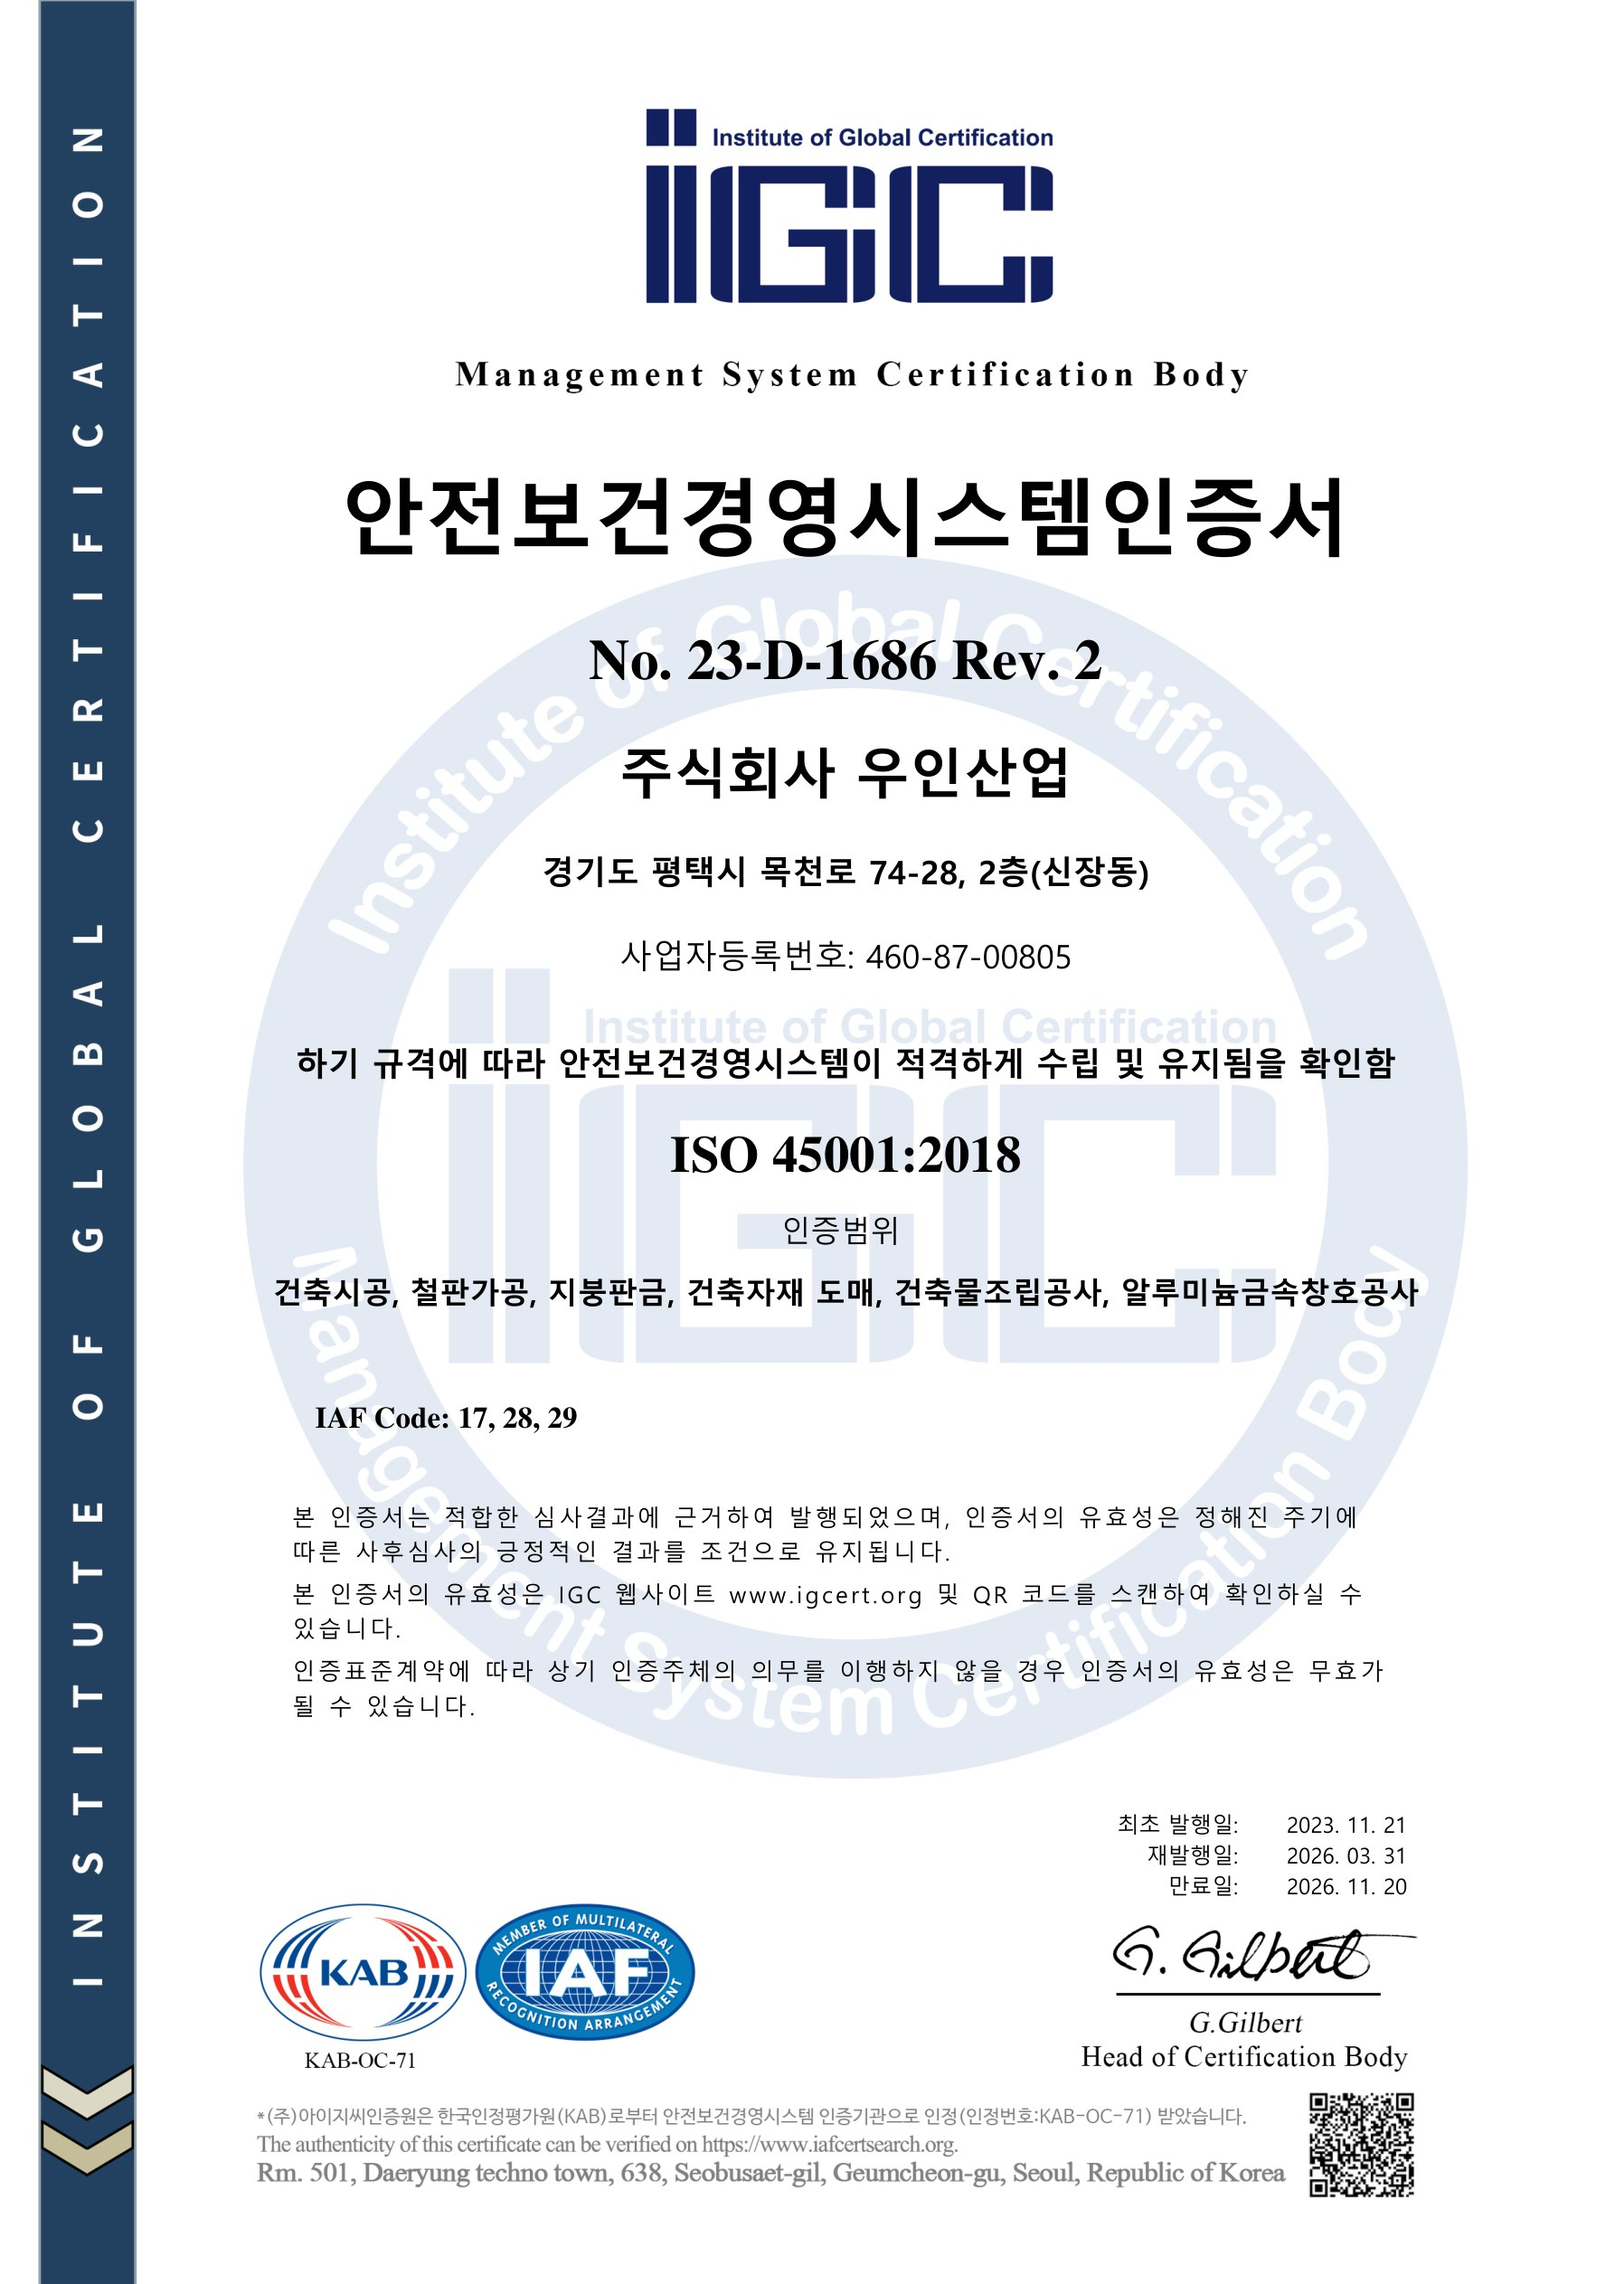
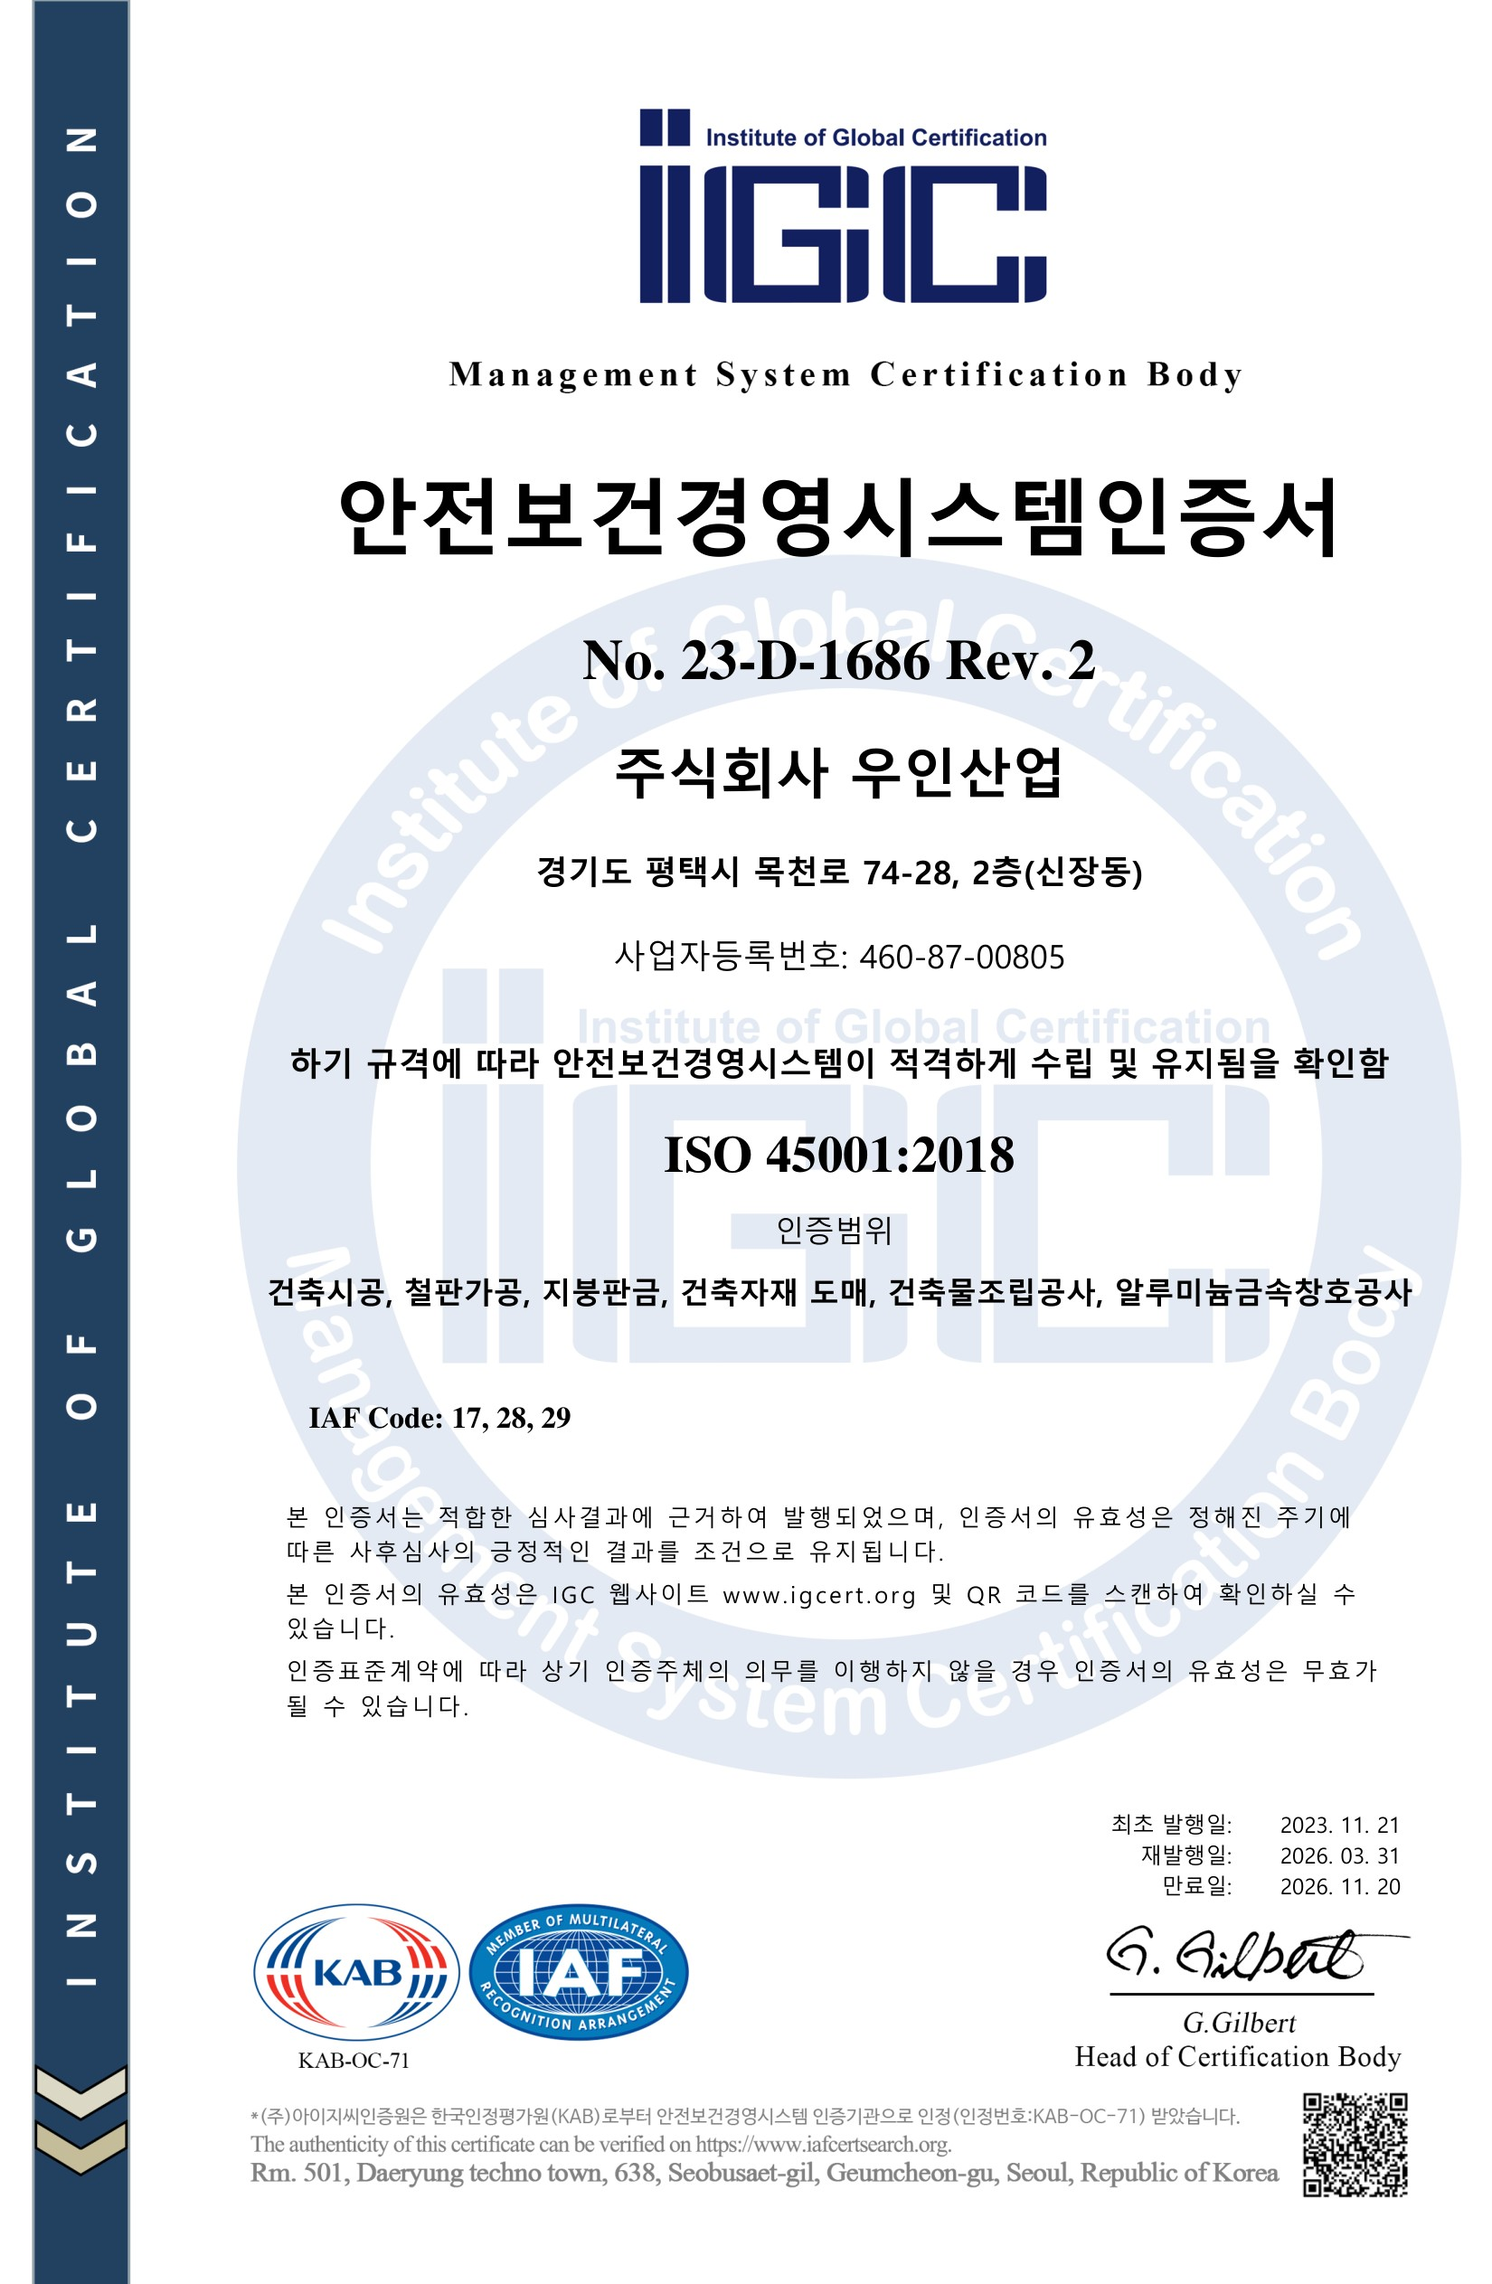
fix(about): 인증서 갤러리 - ISO만 노출, 여백 잘라 크기 통일
- 벤처기업확인서·연구개발전담부서 인정서를 갤러리에서 제외, ISO 9001/
  14001/45001 3종만 표시
- ISO 14001/45001 이미지의 불필요한 여백을 잘라내고(auto-crop), 썸네일을
  object-cover → object-contain으로 변경해 인증서마다 크기가 다르게
  보이던 문제 해결

Claude-Session: https://claude.ai/code/session_017wK48fy2RUra2nDaqNRhXu

Changed region(s): [[0.1545, 0.0309, 0.9891, 0.9881], [0.0618, 0.0, 0.0927, 1.0], [0.0, 0.0, 0.0309, 1.0]]

diff --git a/src/components/CertificateGallery.tsx b/src/components/CertificateGallery.tsx
@@ -25,16 +25,6 @@ const certificates: Certificate[] = [
     title: "ISO 45001",
     desc: "안전보건경영시스템 인증",
   },
-  {
-    src: "/certificates/venture-certificate.jpg",
-    title: "벤처기업확인서",
-    desc: "혁신성장유형 벤처기업 인증",
-  },
-  {
-    src: "/certificates/rnd-department-certificate.jpg",
-    title: "연구개발전담부서 인정서",
-    desc: "기업부설 연구개발전담부서 인정",
-  },
 ];
 
 export default function CertificateGallery() {
@@ -42,7 +32,7 @@ export default function CertificateGallery() {
 
   return (
     <div>
-      <div className="grid grid-cols-2 sm:grid-cols-3 lg:grid-cols-5 gap-5">
+      <div className="grid grid-cols-2 sm:grid-cols-3 gap-5 max-w-2xl mx-auto">
         {certificates.map((cert) => (
           <button
             key={cert.src}
@@ -51,13 +41,13 @@ export default function CertificateGallery() {
             aria-label={`${cert.title} 크게 보기`}
             className="group text-left"
           >
-            <div className="relative aspect-[210/297] rounded-xl overflow-hidden bg-white shadow-[0_8px_30px_rgba(15,31,77,0.06)] ring-1 ring-gray-100 group-hover:shadow-lg transition-shadow">
+            <div className="relative aspect-[210/297] rounded-xl overflow-hidden bg-white shadow-[0_8px_30px_rgba(15,31,77,0.06)] ring-1 ring-gray-100 group-hover:shadow-lg transition-shadow p-2">
               <Image
                 src={cert.src}
                 alt={cert.title}
                 fill
                 sizes="(max-width: 640px) 45vw, (max-width: 1024px) 30vw, 18vw"
-                className="object-cover object-top"
+                className="object-contain"
               />
               <span className="absolute inset-0 flex items-center justify-center bg-black/0 group-hover:bg-black/25 transition-colors">
                 <span className="opacity-0 group-hover:opacity-100 transition-opacity w-9 h-9 rounded-full bg-white/90 text-navy flex items-center justify-center text-sm shadow-lg">
